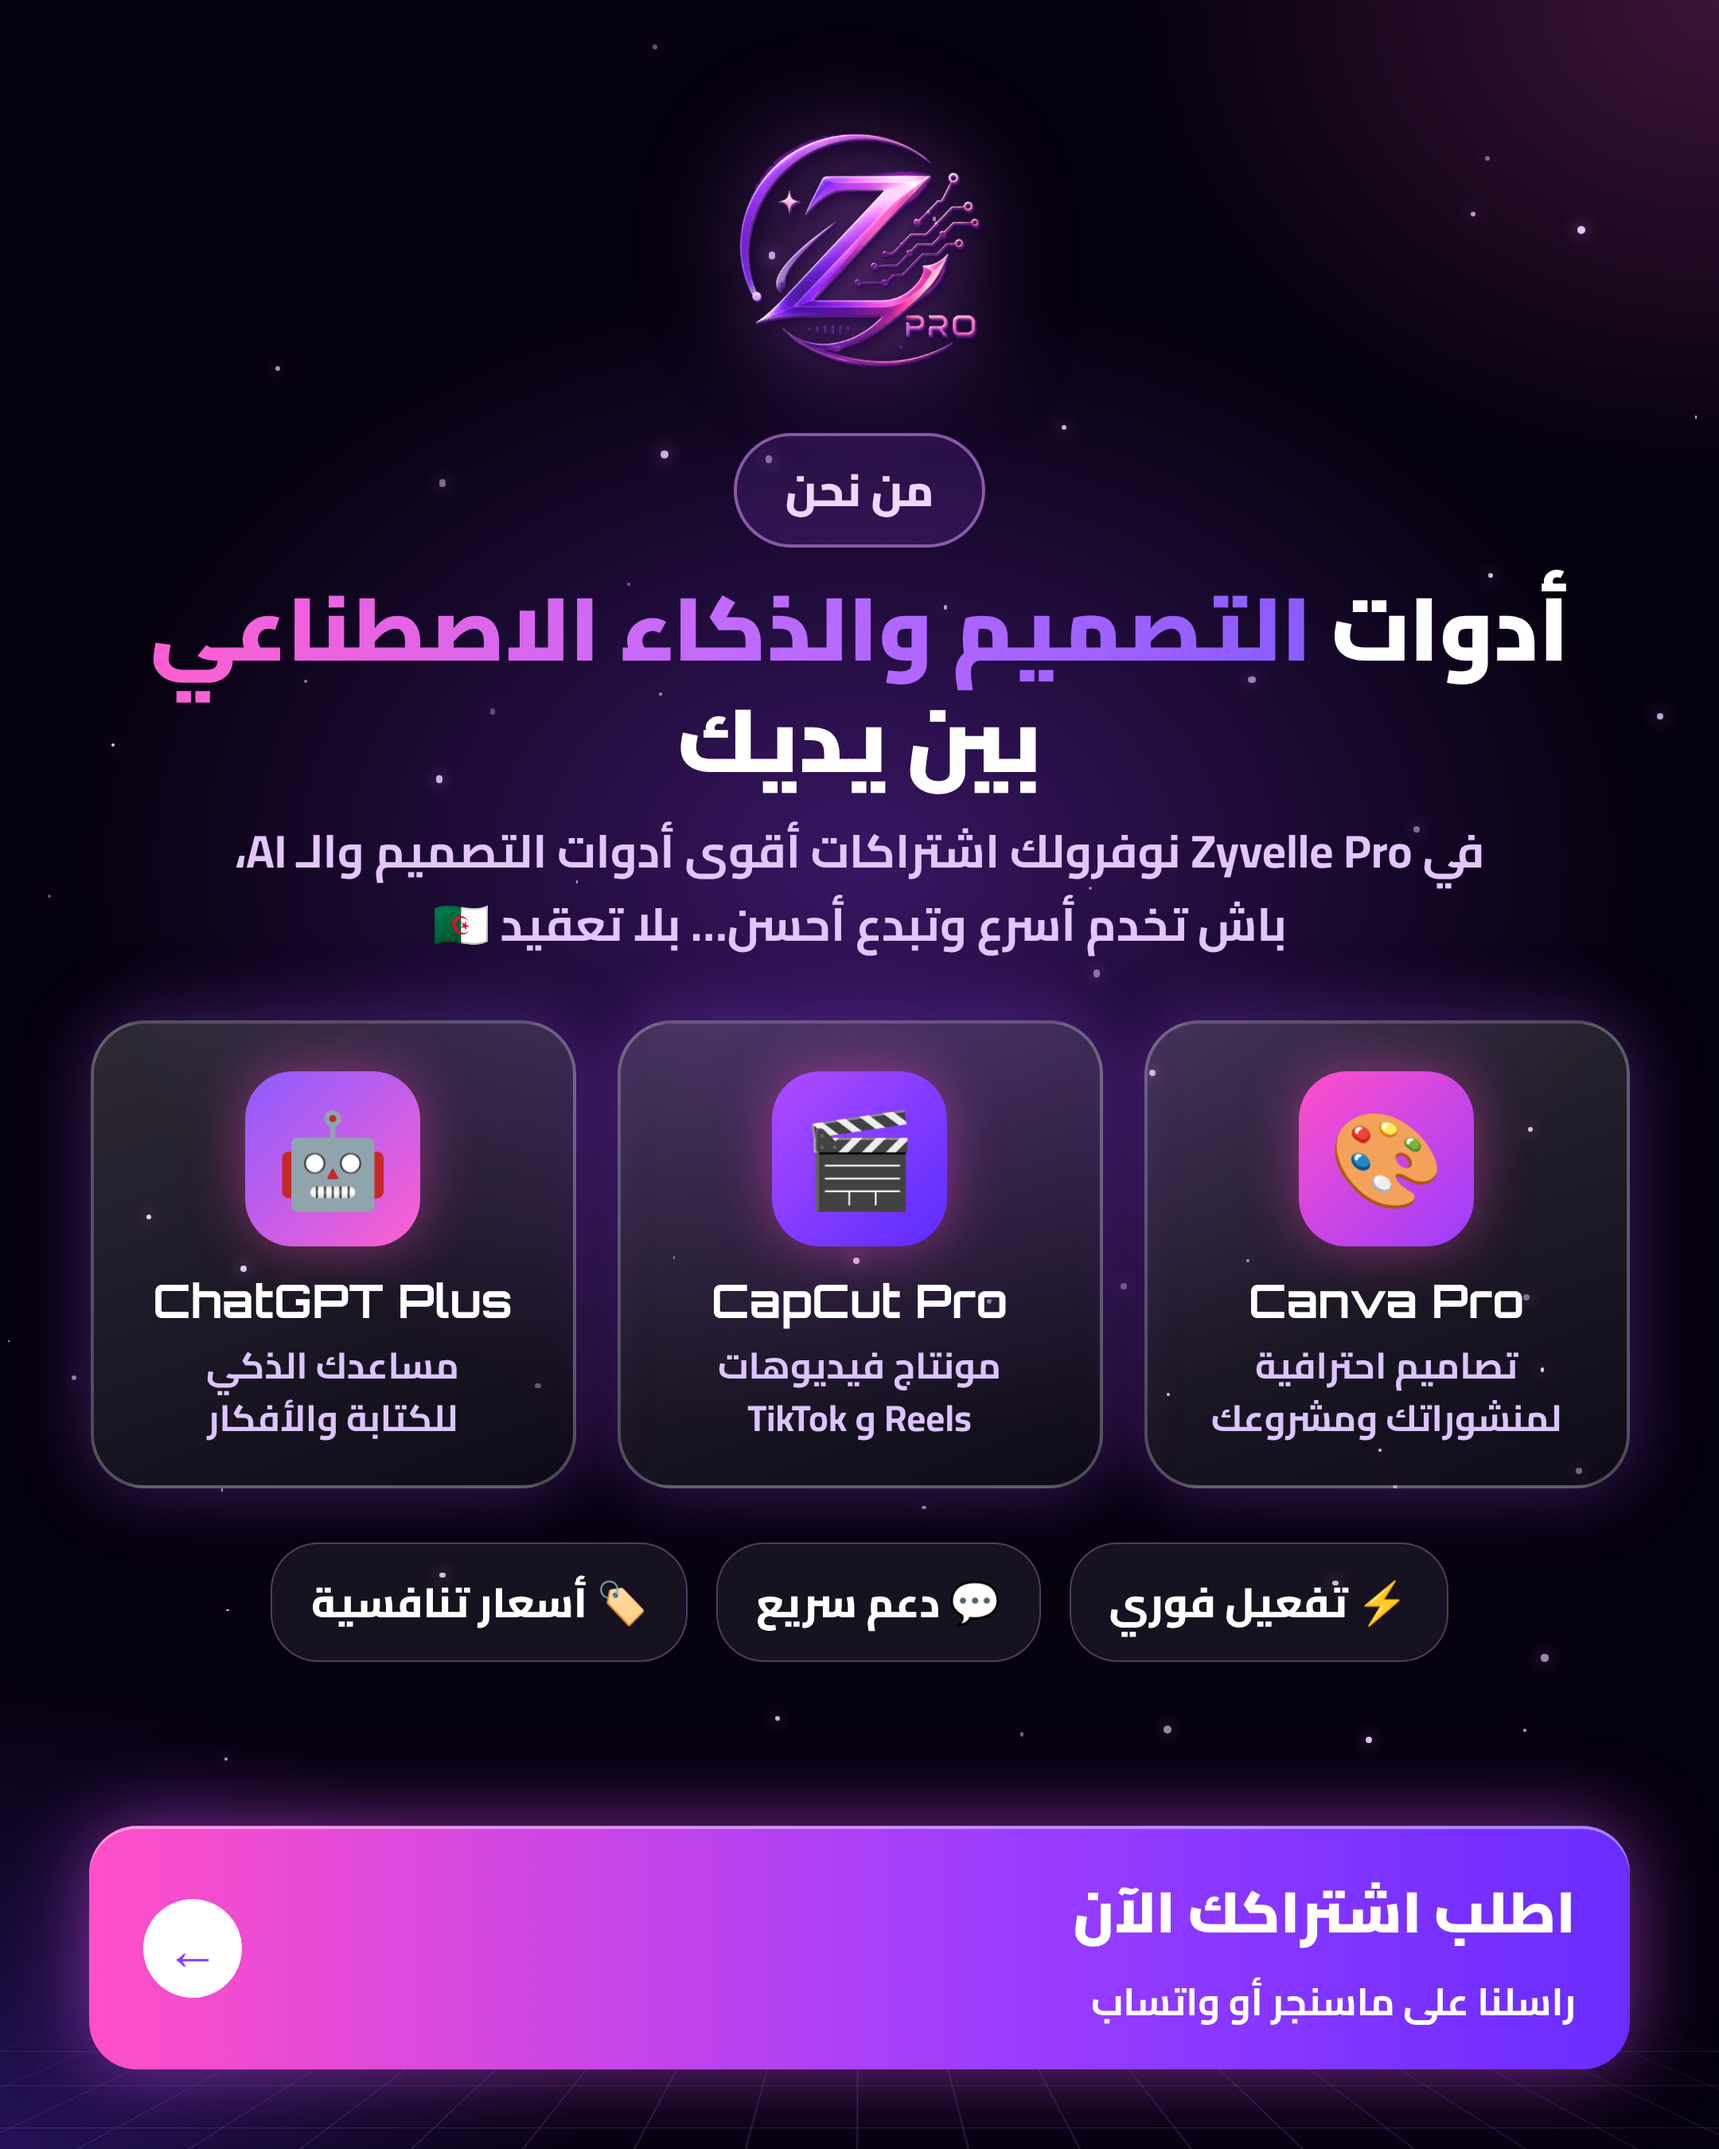
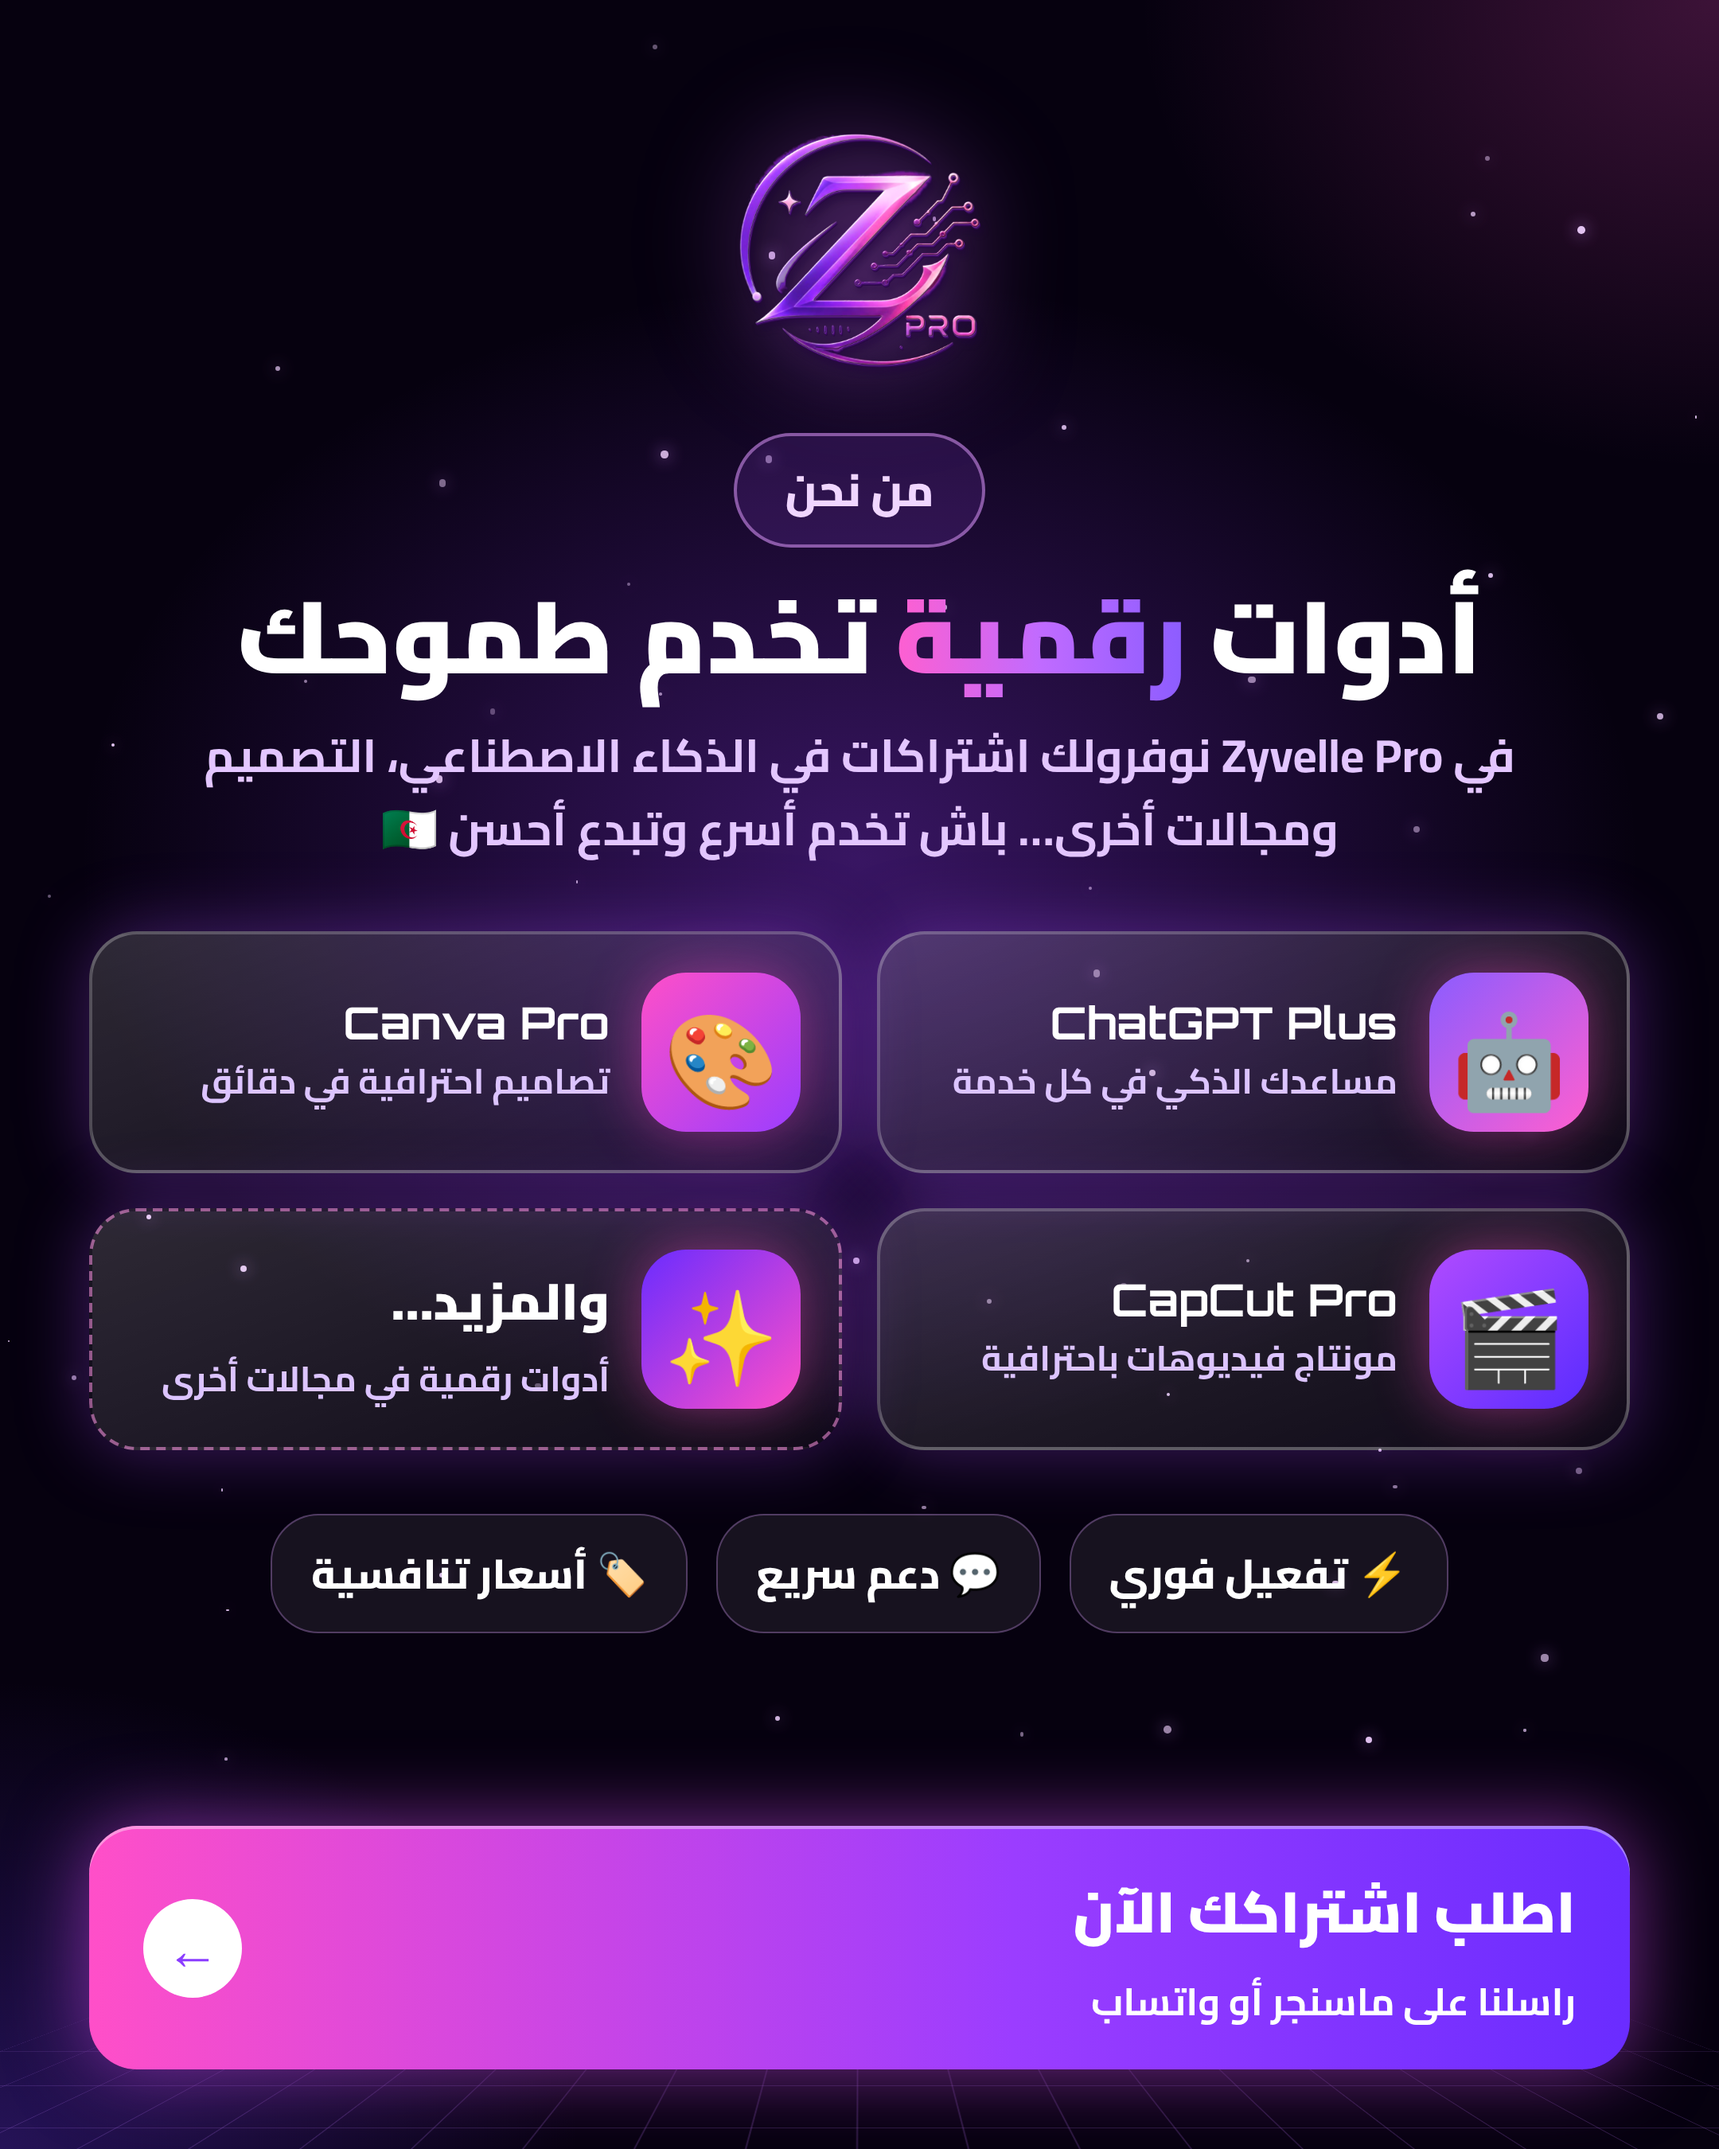
About Us post: AI, design and other fields instead of a narrow specialty
Claude-Session: https://claude.ai/code/session_011giWJ4TSzj2MukxAk34QEQ

Changed region(s): [[0.031, 0.2489, 0.9616, 0.7778], [0.031, 0.5289, 0.062, 0.56]]

diff --git a/assets/posts/zpro-post-about-us.html b/assets/posts/zpro-post-about-us.html
@@ -9,15 +9,15 @@ body{background:#06010f;font-family:Cairo,sans-serif;color:#fff;position:relativ
 .wrap{position:absolute;inset:0;direction:rtl;display:flex;flex-direction:column;align-items:center;padding:56px 56px 0}
 .logo{width:210px;filter:drop-shadow(0 0 30px rgba(200,100,255,.6))}
 .pill{margin-top:6px;font-weight:800;font-size:28px;padding:8px 30px;border-radius:40px;border:2px solid rgba(230,160,255,.5);color:#f0d6ff;background:rgba(170,80,255,.15)}
-h1{margin-top:16px;font-size:56px;font-weight:900;line-height:1.25;text-align:center}
+h1{margin-top:16px;font-size:64px;font-weight:900;line-height:1.25;text-align:center}
 .grad{background:linear-gradient(90deg,#ff5fd0,#c06bff,#8b5cff);-webkit-background-clip:text;color:transparent}
 .lead{margin-top:12px;font-size:29px;font-weight:700;color:#e3c6ff;text-align:center;line-height:1.6;max-width:900px}
-.prods{margin-top:36px;display:flex;gap:26px;width:100%;justify-content:center}
-.p{width:305px;border-radius:34px;padding:30px 22px 26px;text-align:center;background:linear-gradient(160deg,rgba(255,255,255,.16),rgba(255,255,255,.04));border:2px solid rgba(255,255,255,.26);box-shadow:0 0 45px rgba(170,80,255,.35)}
-.ic{width:110px;height:110px;margin:0 auto 16px;border-radius:30px;display:grid;place-items:center;font-size:58px;box-shadow:0 0 35px rgba(255,79,200,.45)}
+.prods{margin-top:40px;display:grid;grid-template-columns:1fr 1fr;gap:22px;width:100%}
+.p{display:flex;align-items:center;gap:20px;border-radius:30px;padding:24px 24px;text-align:right;background:linear-gradient(160deg,rgba(255,255,255,.16),rgba(255,255,255,.04));border:2px solid rgba(255,255,255,.26);box-shadow:0 0 45px rgba(170,80,255,.35)}
+.ic{flex:none;width:100px;height:100px;border-radius:28px;display:grid;place-items:center;font-size:58px;box-shadow:0 0 35px rgba(255,79,200,.45)}
 .i1{background:linear-gradient(135deg,#ff4fc8,#9b3dff)}.i2{background:linear-gradient(135deg,#b04bff,#5a2cff)}.i3{background:linear-gradient(135deg,#8b5cff,#ff5fd0)}
-.p b{display:block;font-family:Orbitron,sans-serif;font-size:29px;white-space:nowrap;direction:ltr}.p span{display:block;margin-top:6px;font-size:23px;color:#dcc4ff;font-weight:700;line-height:1.45}
-.feats{margin-top:34px;display:flex;gap:18px}
+.p b{display:block;font-family:Orbitron,sans-serif;font-size:28px;white-space:nowrap;direction:ltr;text-align:right}.p b.ar{font-family:Cairo;font-size:32px;font-weight:900;direction:rtl}.i4{background:linear-gradient(135deg,#6a2cff,#ff4fc8)}.more{border-style:dashed;border-color:rgba(255,150,230,.55)}.p span{display:block;margin-top:4px;font-size:22px;color:#dcc4ff;font-weight:700;line-height:1.45}
+.feats{margin-top:40px;display:flex;gap:18px}
 .f{font-size:26px;font-weight:800;padding:12px 24px;border-radius:30px;background:rgba(255,255,255,.07);border:1px solid rgba(220,160,255,.3)}
 .cta{position:absolute;left:56px;right:56px;bottom:50px;direction:rtl;display:flex;justify-content:space-between;align-items:center;padding:20px 34px;border-radius:30px;background:linear-gradient(90deg,#ff4fc8,#9b3dff 60%,#6a2cff);box-shadow:0 0 50px rgba(220,80,255,.55),inset 0 2px 0 rgba(255,255,255,.4)}
 .cta b{font-size:36px;font-weight:900}.cta span{font-size:24px;font-weight:700}
@@ -27,12 +27,13 @@ h1{margin-top:16px;font-size:56px;font-weight:900;line-height:1.25;text-align:ce
 <div class="wrap">
  <img class="logo" src="../zpro/zpro-logo-3d-transparent.png">
  <div class="pill">من نحن</div>
- <h1>أدوات <span class="grad">التصميم والذكاء الاصطناعي</span><br>بين يديك</h1>
- <div class="lead">في Zyvelle Pro نوفرولك اشتراكات أقوى أدوات التصميم والـ AI،<br>باش تخدم أسرع وتبدع أحسن… بلا تعقيد 🇩🇿</div>
+ <h1>أدوات <span class="grad">رقمية</span> تخدم طموحك</h1>
+ <div class="lead">في Zyvelle Pro نوفرولك اشتراكات في الذكاء الاصطناعي، التصميم<br>ومجالات أخرى… باش تخدم أسرع وتبدع أحسن 🇩🇿</div>
  <div class="prods">
-  <div class="p"><div class="ic i1">🎨</div><b>Canva Pro</b><span>تصاميم احترافية<br>لمنشوراتك ومشروعك</span></div>
-  <div class="p"><div class="ic i2">🎬</div><b>CapCut Pro</b><span>مونتاج فيديوهات<br><bdi>Reels</bdi> و <bdi>TikTok</bdi></span></div>
-  <div class="p"><div class="ic i3">🤖</div><b>ChatGPT Plus</b><span>مساعدك الذكي<br>للكتابة والأفكار</span></div>
+  <div class="p"><div class="ic i3">🤖</div><div><b>ChatGPT Plus</b><span>مساعدك الذكي في كل خدمة</span></div></div>
+  <div class="p"><div class="ic i1">🎨</div><div><b>Canva Pro</b><span>تصاميم احترافية في دقائق</span></div></div>
+  <div class="p"><div class="ic i2">🎬</div><div><b>CapCut Pro</b><span>مونتاج فيديوهات باحترافية</span></div></div>
+  <div class="p more"><div class="ic i4">✨</div><div><b class="ar">والمزيد…</b><span>أدوات رقمية في مجالات أخرى</span></div></div>
  </div>
  <div class="feats"><div class="f">⚡ تفعيل فوري</div><div class="f">💬 دعم سريع</div><div class="f">🏷 أسعار تنافسية</div></div>
 </div>
